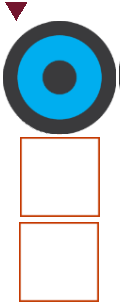
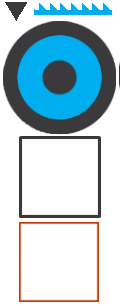
edited style

Changed region(s): [[0.15, 0.4412, 0.85, 0.7353], [0.275, 0.0, 0.95, 0.0588], [0.05, 0.0, 0.225, 0.0882]]

diff --git a/scripts/balance.js b/scripts/balance.js
@@ -13,6 +13,7 @@ $(document).ready(function () {
     var rightBoxes = [];
     var ropeLeftLines = [];
     var ropeRightLines = [];
+    var floors = [];
 
     //seated shapes 
     var seatedShapes = [];
@@ -23,6 +24,7 @@ $(document).ready(function () {
     var checkShapeCount = 0;
     var gameTime = 0;
     var totalShapeCount = gameObject.maxShapeCount;
+    var defaultHeight = 35;
 
     //first game load.
     var game = game1;
@@ -121,6 +123,13 @@ $(document).ready(function () {
             ropeRightLines.sort();
         });
 
+        $(".floor").each(function () {
+            var floorId = ($(this).attr("id"));
+
+            floors.push("#" + floorId);
+            floors.sort();
+        });
+
         for (let i = 0; i < game.balanceCount; i++) {
             //seated left boxes
             seatedTriangle(game.leftBox[i].triangleCount, $(leftBoxes[i]).position().left, $(leftBoxes[i]).position().top, game.triangleValue, $(leftBoxes[i]));
@@ -144,26 +153,46 @@ $(document).ready(function () {
                 rightValue += parseInt($(this).attr('value'));
             });
 
-            difference = leftValue - rightValue;
-
             var getLeftLineHeight = parseInt($(ropeLeftLines[i]).height());
             var getRightLineHeight = parseInt($(ropeRightLines[i]).height());
 
             var getLeftBoxHeight = parseInt($(leftBoxes[i]).css('margin-top'));
             var getRightBoxHeight = parseInt($(rightBoxes[i]).css('margin-top'));
 
-            if (i == game.balanceCount - 1) {
-                getLeftLineHeight += difference * 2.5;
-                getLeftBoxHeight += difference * 2.5;
-                getRightBoxHeight -= difference * 2.5;
-                getRightLineHeight -= difference * 2.5;
+            difference = leftValue - rightValue;
+
+            if (leftValue > rightValue) {
+                getLeftLineHeight += defaultHeight;
+                getLeftBoxHeight += defaultHeight;
+                getRightBoxHeight -= defaultHeight;
+                getRightLineHeight -= defaultHeight;
+
+                var topHeight = getLeftLineHeight * 2 - 1.3 + "px";
+
+                $('.floor').css({
+                    'margin-top': topHeight,
+                })
             }
-            else {
-                getLeftLineHeight += difference * 4;
-                getLeftBoxHeight += difference * 4;
-                getRightBoxHeight -= difference * 4;
-                getRightLineHeight -= difference * 4;
+
+            if (leftValue < rightValue) {
+                getLeftLineHeight -= defaultHeight;
+                getLeftBoxHeight -= defaultHeight;
+                getRightBoxHeight += defaultHeight;
+                getRightLineHeight += defaultHeight;
             }
+
+            // if (i == game.balanceCount - 1) {
+            //     getLeftLineHeight += difference * 2.5;
+            //     getLeftBoxHeight += difference * 2.5;
+            //     getRightBoxHeight -= difference * 2.5;
+            //     getRightLineHeight -= difference * 2.5;
+            // }
+            // else {
+            //     getLeftLineHeight += difference * 4;
+            //     getLeftBoxHeight += difference * 4;
+            //     getRightBoxHeight -= difference * 4;
+            //     getRightLineHeight -= difference * 4;
+            // }
 
             animateMargin($(leftBoxes[i]), getLeftBoxHeight);
             animateHeight($(ropeLeftLines[i]), getLeftLineHeight);
@@ -177,9 +206,9 @@ $(document).ready(function () {
         dropShape();
 
         $(".bln").hide();
-        $(".bln").toggle("scale", 1500, function () { 
+        $(".bln").toggle("scale", 1500, function () {
             $(".bln").css({
-                'transform' : 'scale(0.9)',
+                'transform': 'scale(0.9)',
             })
         });
     }
@@ -371,17 +400,17 @@ $(document).ready(function () {
 
             start: function (event, ui) {
                 var selectedShape = ui.helper.attr('id');
-                var shapeCountInside = $(rightBoxes[game.balanceCount - 1]).children("[id^='" + selectedShape +"']").length + 1;
+                var shapeCountInside = $(rightBoxes[game.balanceCount - 1]).children("[id^='" + selectedShape + "']").length + 1;
 
-                if(selectedShape == 'triangleShape' && shapeCountInside < gameObject.maxShapeCount) {
+                if (selectedShape == 'triangleShape' && shapeCountInside < gameObject.maxShapeCount) {
                     prepareTriangle(1, game.triangleValue);
                 }
 
-                if(selectedShape == 'squareShape' && shapeCountInside < gameObject.maxShapeCount) {
+                if (selectedShape == 'squareShape' && shapeCountInside < gameObject.maxShapeCount) {
                     prepareSquare(1, game.squareValue);
                 }
-                
-                if(selectedShape == 'circleShape' && shapeCountInside < gameObject.maxShapeCount) {
+
+                if (selectedShape == 'circleShape' && shapeCountInside < gameObject.maxShapeCount) {
                     prepareCircle(1, game.circleValue);
                 }
 
@@ -493,12 +522,15 @@ $(document).ready(function () {
     function setBalances(balanceHtml, index) {
         balanceHtml = "<div class='col blnCol'>";
         balanceHtml += "<div id='balance" + index + "' class='blnShape'>";
-        balanceHtml += "<div class='hanger'></div>";
         balanceHtml += "<div class='pendulum' id='pendulum" + index + "'></div>";
         balanceHtml += "<div class='ropeLeft' id = 'ropeLeft" + index + "'></div >";
         balanceHtml += "<div class='ropeRight' id='ropeRight" + index + "'></div>";
         balanceHtml += "<div class='boxLeft' id='boxLeft" + index + "'></div>";
-        balanceHtml += "<div class='boxRight' id='boxRight" + index + "'></div></div ></div >";
+        balanceHtml += "<div class='boxRight' id='boxRight" + index + "'></div>";
+        balanceHtml += "<div class='floor' id='floor" + index + "'></div>";
+        balanceHtml += "<div class='ropeTop' id='ropeTop" + index + "'></div>";
+        balanceHtml += "<div class='topHanger' id='topHanger" + index + "'></div>";
+        balanceHtml += "</div>";
 
         return balanceHtml;
     }

diff --git a/styles/balance.css b/styles/balance.css
@@ -1,5 +1,4 @@
 body {
-    background-image: url("../img/game-background.jpg");
     background-repeat: no-repeat;
     background-attachment: fixed;
     width: 100%;
@@ -7,7 +6,8 @@ body {
     -webkit-background-size: cover;
     -moz-background-size: cover;
     -o-background-size: cover;
-    background-size: 'cover';
+    background-size: cover;
+    background-color: antiquewhite;
 }
 
 .container {
@@ -18,7 +18,7 @@ body {
     height: 600px;
     border: aliceblue;
     position: relative;
-    background-color: inherit!important;
+    background-color: inherit !important;
 }
 
 .ropeLeft {
@@ -89,6 +89,38 @@ body {
     /* transform: scale(0.8); */
     flex-wrap: wrap-reverse;
     display: flex;
+}
+
+.floor {
+    background-image: url(../img/floor2.png);
+    background-repeat: repeat-x;
+    height: 25px;
+    width: 170px;
+    position: absolute;
+    /* margin-top: 294px; */
+    margin-left: -29px;
+}
+
+.topHanger {
+    background-image: url(../img/balance2.png);
+    background-repeat: no-repeat;
+    height: 13px;
+    width: 71px;
+    background-position: -39px -6px;
+    position: absolute;
+    /* margin-top: 180px; */
+    margin-left: 20px;
+    z-index: 1;
+}
+
+.ropeTop {
+    height: 66px;
+    border-left: 5px solid lightslategrey;
+    position: absolute;
+    margin-top: 6px;
+    margin-left: 53px;
+    border-radius: 2px;
+    z-index: 1;
 }
 
 #circleShape {

diff --git a/scripts/games.js b/scripts/games.js
@@ -12,12 +12,12 @@ var game1 = {
     squareValue: 5,
     leftBox: [
         { triangleCount: 2, rectCount: 1, circleCount: 0 },
-        { triangleCount: 1, rectCount: 0, circleCount: 0 },
+        { triangleCount: 0, rectCount: 0, circleCount: 1 },
         { triangleCount: 0, rectCount: 3, circleCount: 0 },
     ],
     rightBox: [
         { triangleCount: 1, rectCount: 0, circleCount: 0 },
-        { triangleCount: 0, rectCount: 0, circleCount: 1 },
+        { triangleCount: 1, rectCount: 0, circleCount: 0 },
         { triangleCount: 0, rectCount: 0, circleCount: 0 },
     ],
 }
